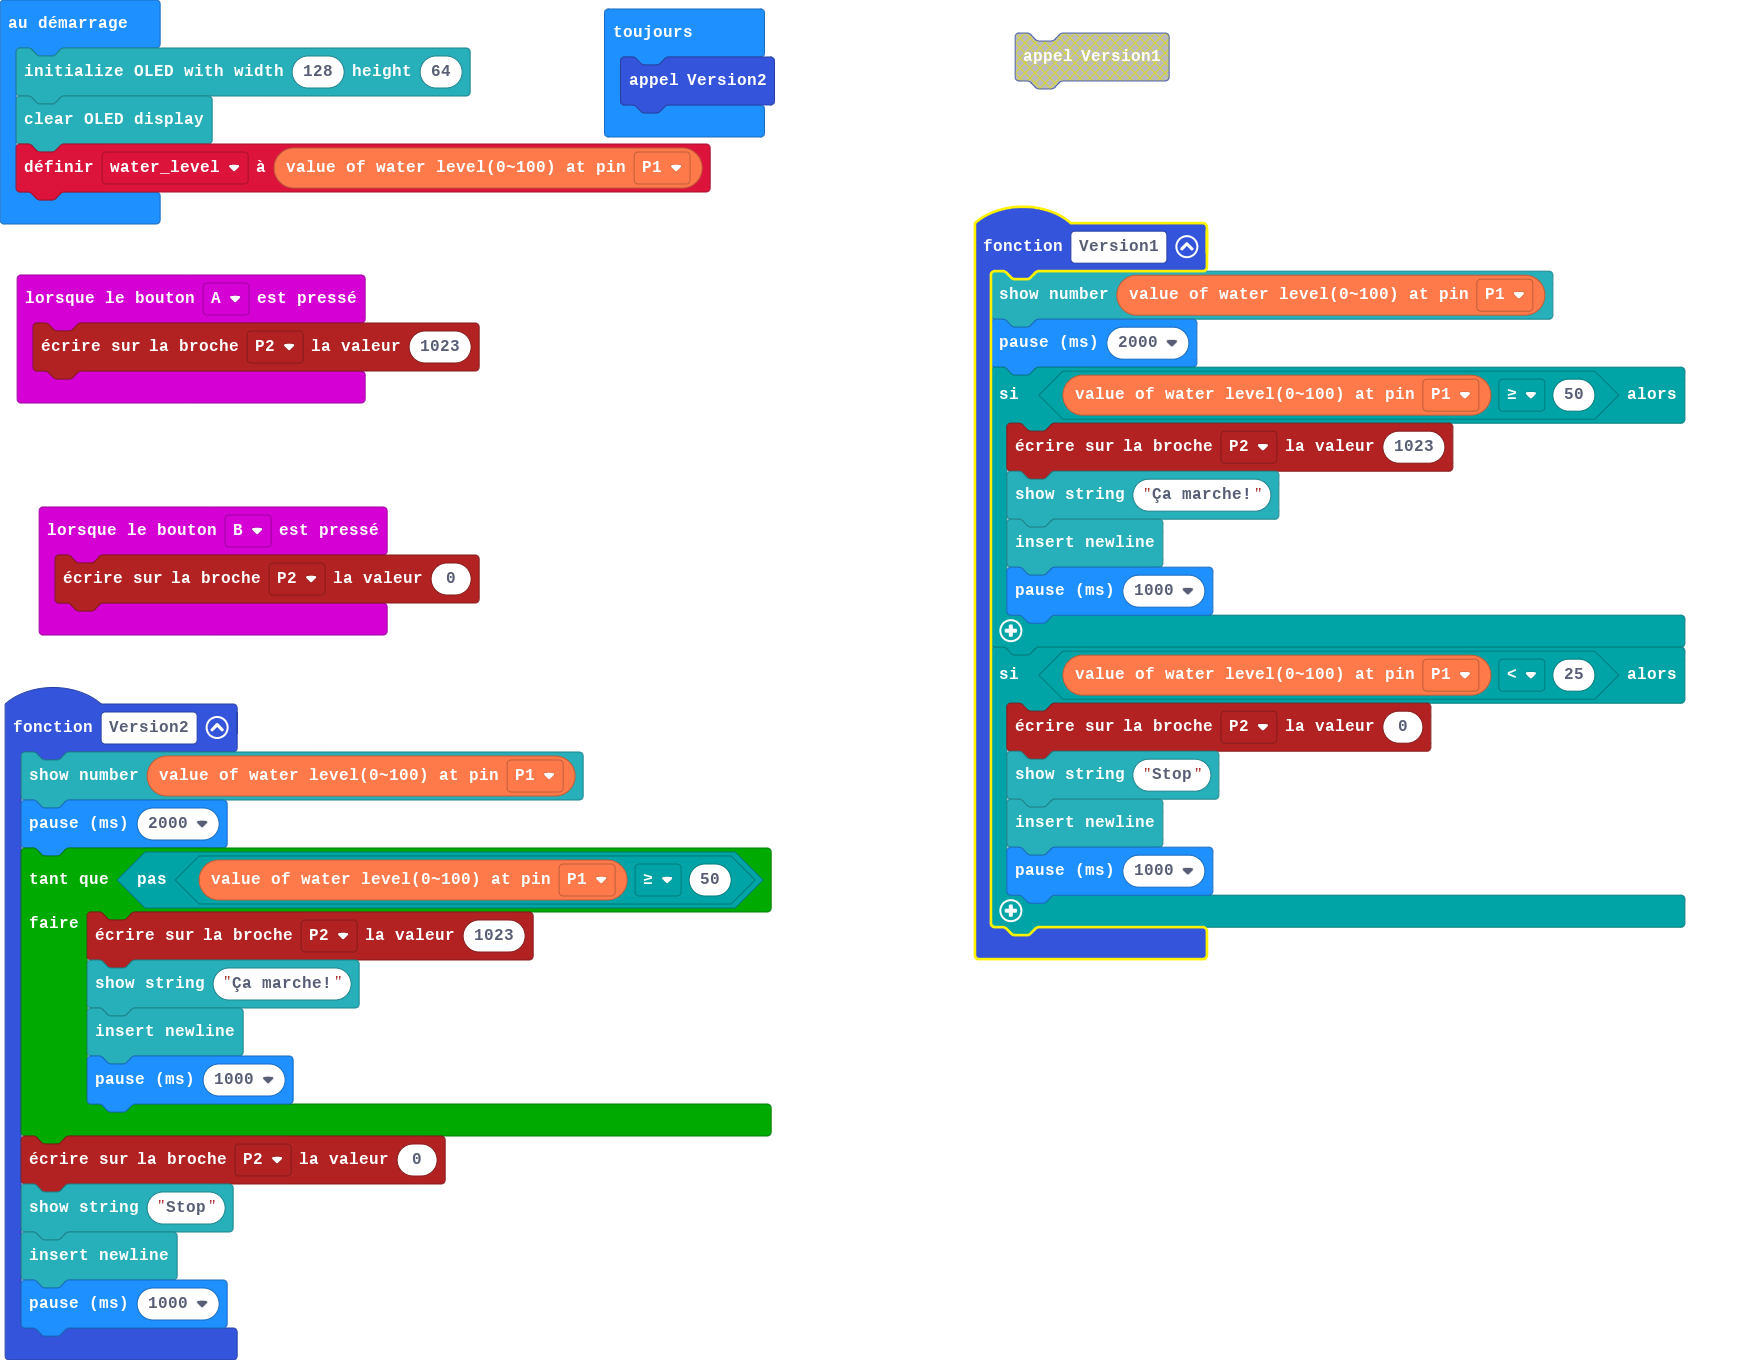
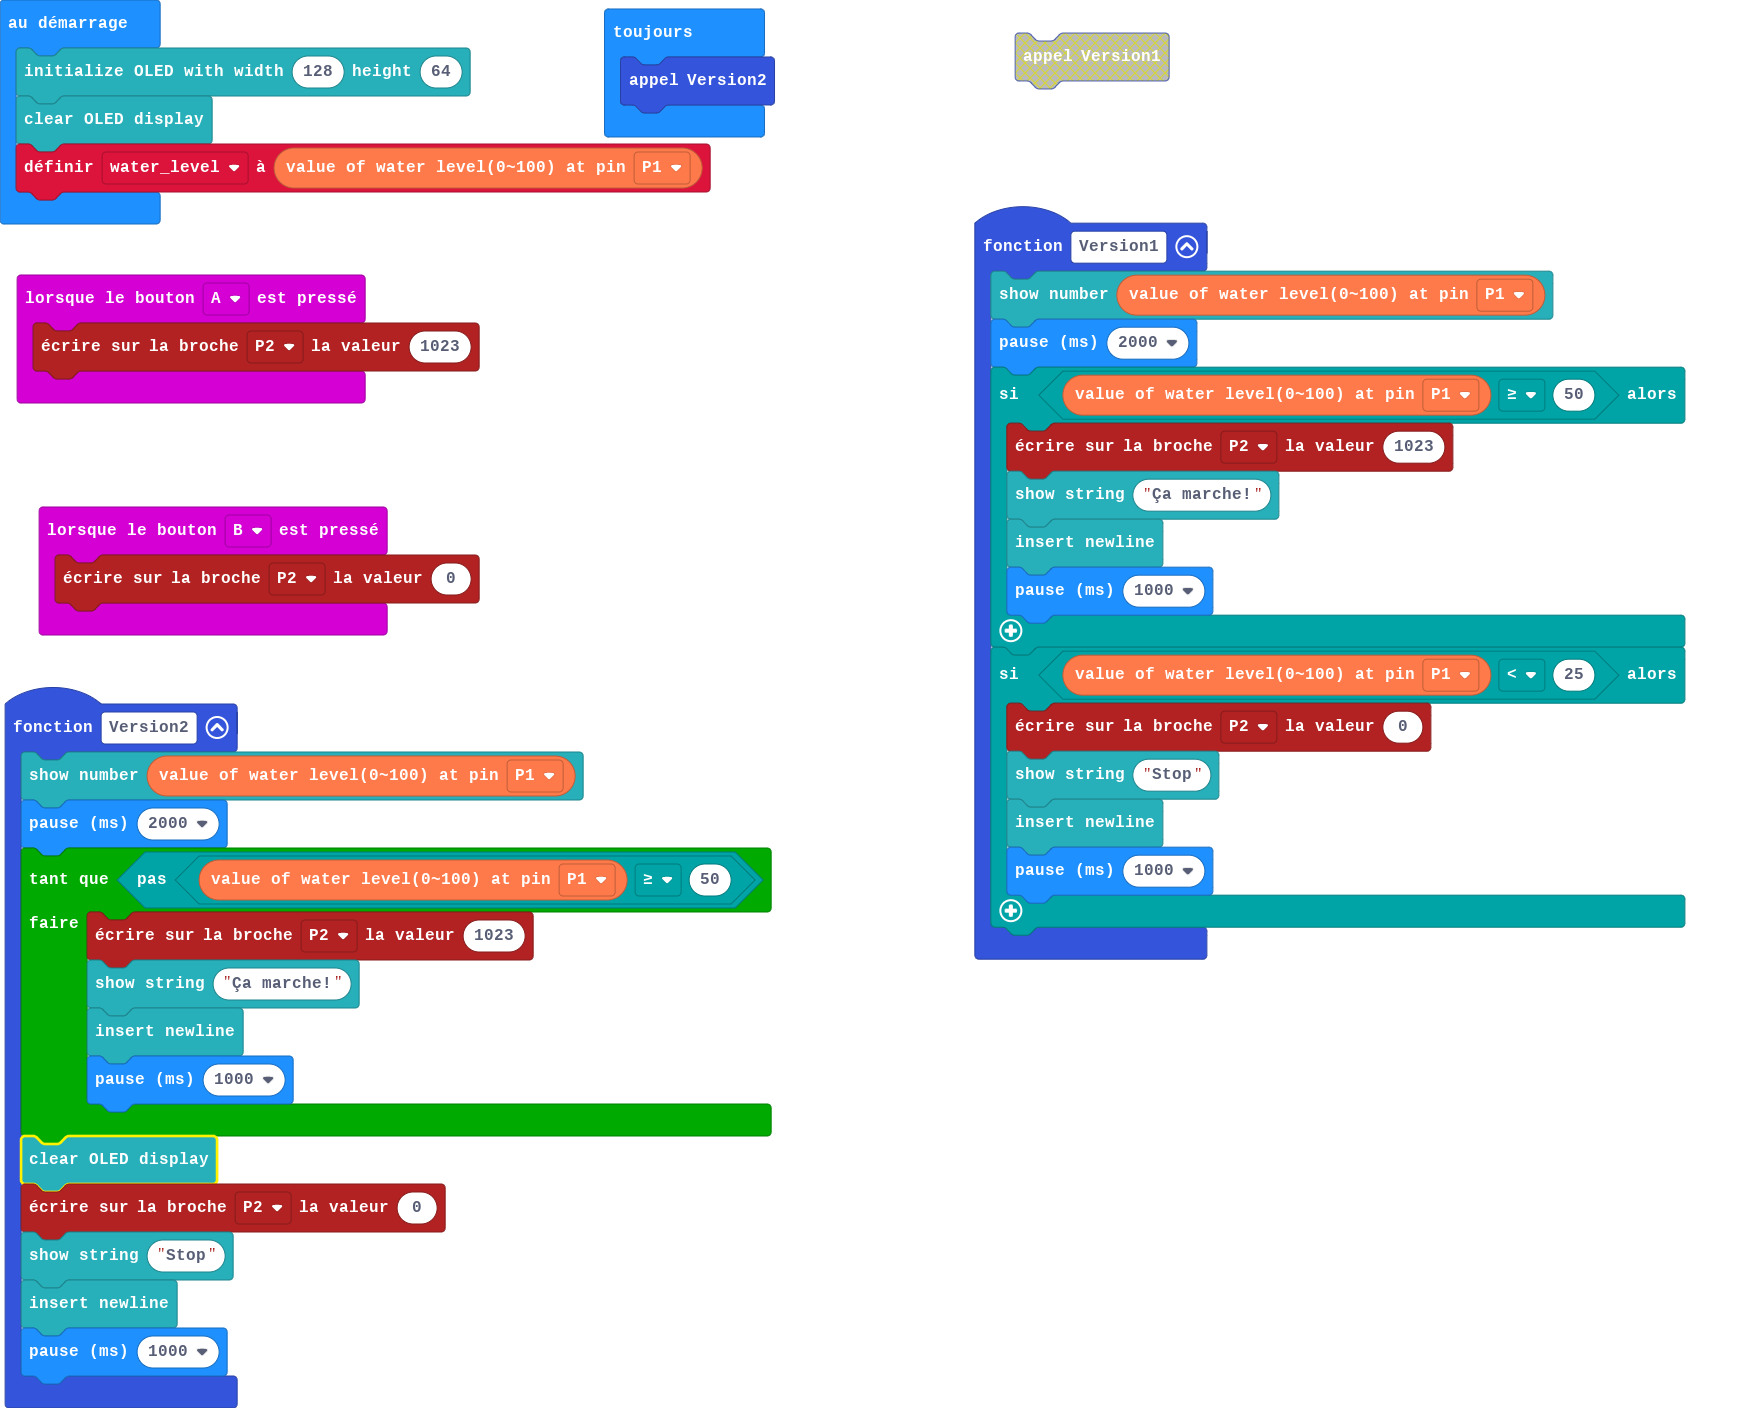
Mettre à jour main.blocks, main.ts

diff --git a/main.ts b/main.ts
@@ -7,6 +7,7 @@ function Version2 () {
         OLED.newLine()
         basic.pause(1000)
     }
+    OLED.clear()
     pins.analogWritePin(AnalogPin.P2, 0)
     OLED.writeStringNewLine("Stop")
     OLED.newLine()
